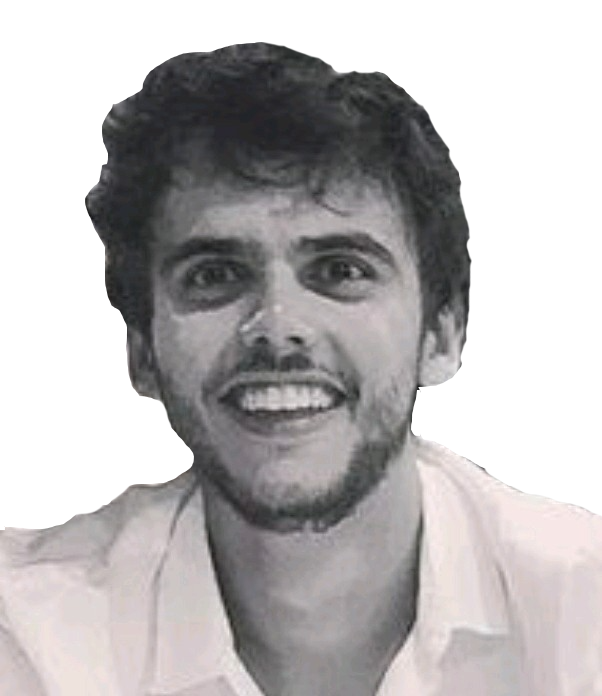
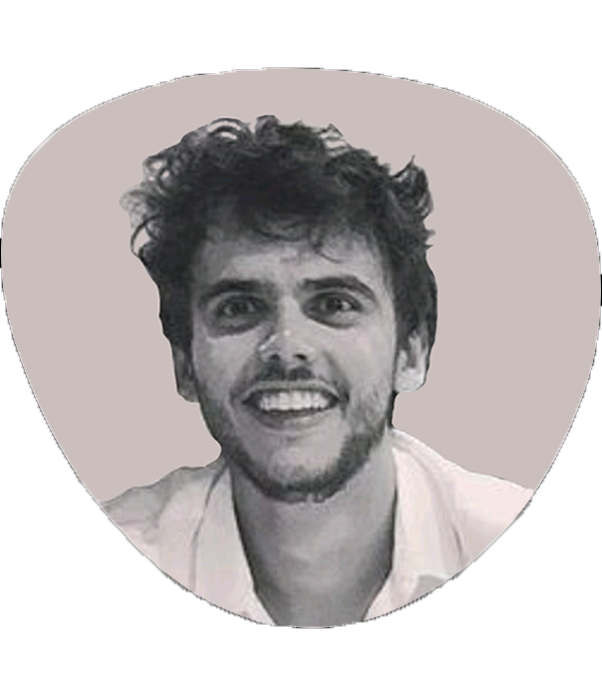
Updated blob image

diff --git a/index.html b/index.html
@@ -105,7 +105,7 @@
                                 165.547 130.807 187.559 100.226 186.353C69.6454 185.297 41.0228 161.023 21.7403
                                 129.362C2.45775 97.8511 -7.48481 59.1033 6.67581 34.5279C20.9871 10.1032 59.7028
                                 -0.149132 97.9666 0.00163737C136.23 0.303176 174.193 10.857 190.312 36.4879Z"/>
-                                <image class="home__blob-img" x='20' y='8' href="img/nathan.png"/>
+                                <image class="home__blob-img" x='15' y='-5' href="img/nathan.png"/>
                             </g>
                         </svg>
                     </div>
